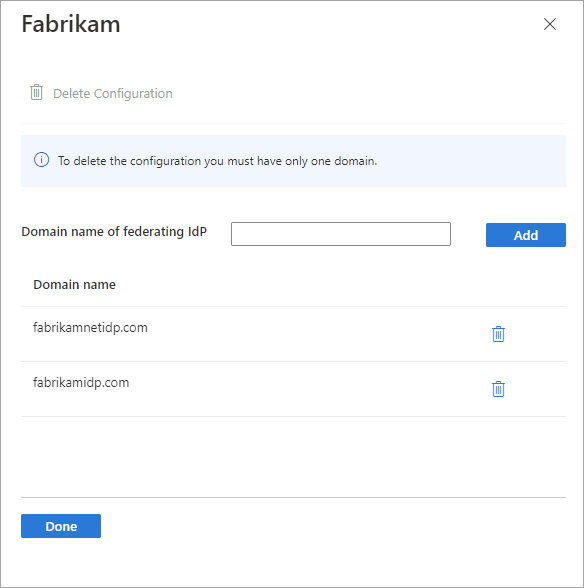
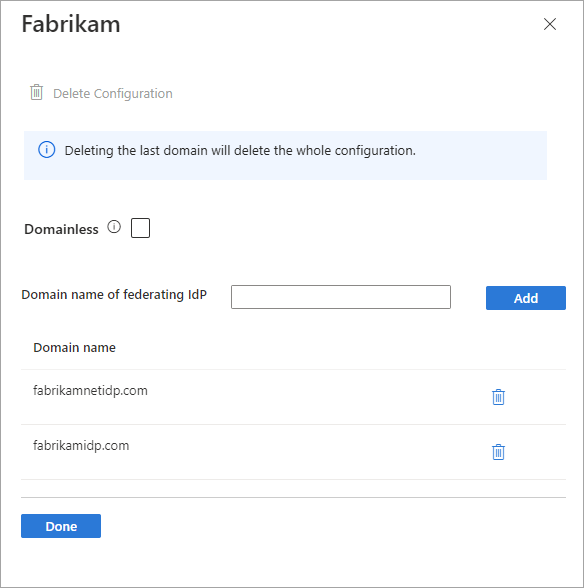
Updated domainless doc

diff --git a/docs/external-id/direct-federation.md b/docs/external-id/direct-federation.md
@@ -194,7 +194,7 @@ This error typically occurs when:
 
 Even when an email claim is present, authentication may still fail if the email domain does not align with the configured IdP domain due to domain‑based matching requirements.
 
-### Using Domainless Federation
+### Configuring Domainless Federation
 To address this limitation, you can configure the SAML IdP as domainless.
 When domainless federation is enabled:
 - Microsoft Entra ID routes authentication requests to the configured SAML IdP based on the Issuer URI association
@@ -202,8 +202,13 @@ When domainless federation is enabled:
 
 This allows users to authenticate successfully using email addresses from any domain (for example, yahoo.com or gmail.com) when signing in with the external SAML IdP.
 
+1. On the New SAML/WS-Fed IdP page, select **Domainless** - Selecting Domainless will enforce no domain check of the user's email address.
+
+    :::image type="content" source="media/direct-federation/new-saml-wsfed-idp-domain-less.png" alt-text="Screenshot showing the SAML/WS-Fed identity provider list with the domainless configuration." lightbox="media/direct-federation/new-saml-wsfed-idp-domain-less.png":::
+
+
 > [!IMPORTANT]
-> When the **Domain** field is left empty, federation is configured as domainless. Microsoft Entra ID uses the **Issuer URI** to match incoming authentication requests instead of domain‑based routing. Currently, only **one** wildcard IdP can be configured per tenant.
+> When the **Domainless** field is selected, federation is configured as domainless. Microsoft Entra ID uses the **Issuer URI** to match incoming authentication requests instead of domain‑based routing. Currently, only **one** wildcard IdP can be configured per tenant.    
 
 ### User Flow Using Domainless Federation
 After configuring domainless federation, you can invite guest users from the partner organization by following these steps: